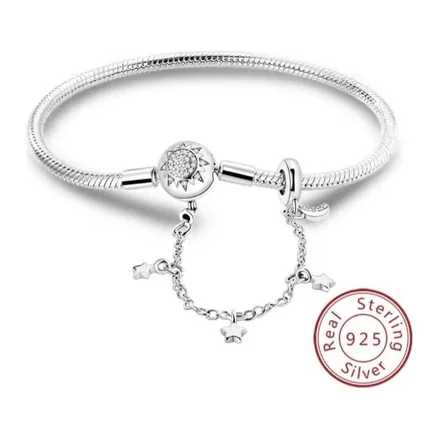
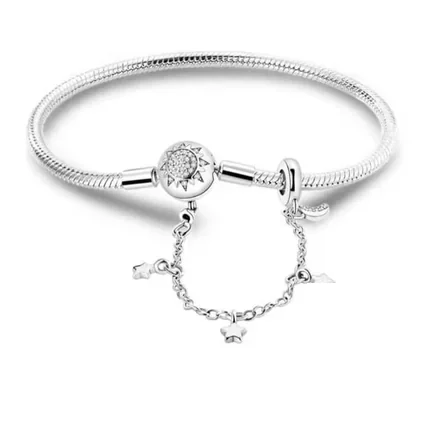
Limpiar el sello del osito y de la pulsera del sol, que habia descartado mal
Llegaron cinco imagenes generadas con Gemini para las cinco piezas que yo habia
dado por imposibles de retocar. Venian limpias y del tamaño correcto, pero al
compararlas con la foto real cada una habia cambiado la pieza: las orejas del
osito pasan de lisas a texturadas con brillo, el cierre de la pulsera del sol
pasa de sol a sol con luna creciente, el aro del escudo pasa de calado a liso.
No se publican. Retocar la foto es una cosa y cambiar el producto que la
clienta recibe es otra.

Y al mirarlas de cerca se vio que dos de esas cinco nunca fueron imposibles. El
sello del osito y el de la pulsera del sol estan sobre blanco; lo que entraba en
su caja no era la pieza sino el halo claro del propio sello, que la busqueda de
componentes habia pegado al cuerpo. La guarda contaba ese halo y rechazaba la
foto. Ahora solo cuenta lo que es producto de verdad: oscuro y neutro, porque la
tinta del sello tambien es oscura pero es roja.

Se arregla ademas que la caja del relleno se quedaba corta. La isla que se
detecta es el anillo interior del sello y su tinta mas clara sobrevivia como un
fantasma; al osito le quedaba media leyenda pegada al borde. La caja crece ahora
hasta que su contorno esta rodeado de fondo.

Con esto el sello queda resuelto en las once que lo tenian. La unica que no se
puede es el escudo, donde esta pegado al segundo charm, y esa necesitaba foto
nueva de todos modos por el logo.

Claude-Session: https://claude.ai/code/session_01VSSPYbyepNN7cMwAcyBYuh

Changed region(s): [[0.7091, 0.6205, 0.9455, 0.8864]]

diff --git a/herramientas/quitar_sello.py b/herramientas/quitar_sello.py
@@ -125,16 +125,56 @@ def busca_sello(ruta):
     ids = max(candidatas, key=len)
     xs = [i % ESCALA for i in ids]
     ys = [i // ESCALA for i in ids]
-    caja = (int(min(xs) / ESCALA * W), int(min(ys) / ESCALA * H),
-            int(max(xs) / ESCALA * W) + 1, int(max(ys) / ESCALA * H) + 1)
 
-    # ¿la caja se come parte de la pieza? Se mide en la escala de trabajo.
+    # La isla detectada suele ser el anillo interior del sello; su tinta más
+    # clara queda fuera y sobrevive al relleno como un fantasma —al osito le
+    # quedaba media leyenda «Real Ste» pegada al borde—. Así que la caja crece
+    # mientras su contorno siga tocando tinta, y para cuando lo rodea el fondo.
+    x0, x1 = min(xs), max(xs)
+    y0, y1 = min(ys), max(ys)
+    def hay_tinta(x, y):
+        if not (0 <= x < ESCALA and 0 <= y < ESCALA):
+            return False
+        i = x + y * ESCALA
+        r, g, b = d[i * 3], d[i * 3 + 1], d[i * 3 + 2]
+        return r - g > 6 and r - b > 6 and min(r, g, b) < 248
+    for _ in range(ESCALA // 6):
+        borde = ([(x, y0 - 1) for x in range(x0, x1 + 1)]
+                 + [(x, y1 + 1) for x in range(x0, x1 + 1)]
+                 + [(x0 - 1, y) for y in range(y0, y1 + 1)]
+                 + [(x1 + 1, y) for y in range(y0, y1 + 1)])
+        if not any(hay_tinta(x, y) for x, y in borde):
+            break
+        x0, y0 = max(0, x0 - 1), max(0, y0 - 1)
+        x1, y1 = min(ESCALA - 1, x1 + 1), min(ESCALA - 1, y1 + 1)
+    xs, ys = [x0, x1], [y0, y1]
+
+    caja = (int(x0 / ESCALA * W), int(y0 / ESCALA * H),
+            int(x1 / ESCALA * W) + 1, int(y1 / ESCALA * H) + 1)
+
+    # Se rellena la **caja** del sello, no sus píxeles: la isla que se detecta es
+    # el aro exterior, no el disco, y rellenar solo el aro deja el interior con
+    # el texto puesto y franjas donde el relleno tomó referencias de dentro.
+    #
+    # Lo que sí cambió es la guarda. Antes contaba cualquier píxel del componente
+    # de la pieza que cayera en la caja, y eso rechazaba fotos limpiables: en el
+    # osito eran 65 píxeles de color (228,228,226) y (235,216,220) —el halo claro
+    # del propio sello, que la búsqueda de componentes había pegado al cuerpo—.
+    # Una plata o un esmalte son oscuros; un halo no. Así que solo cuenta lo
+    # oscuro.
     sx0, sy0 = min(xs) - 2, min(ys) - 2
     sx1, sy1 = max(xs) + 2, max(ys) + 2
-    dentro = sum(1 for i in pieza
-                 if sx0 <= i % ESCALA <= sx1 and sy0 <= i // ESCALA <= sy1)
-    if dentro > 6:
-        return None, f"el sello pisa la pieza ({dentro} px) — hace falta foto nueva"
+    # …y tampoco cuenta lo rojizo. La tinta del sello ES oscura, y parte de su
+    # aro acaba asignada al componente de la pieza; contarla daba 144 píxeles de
+    # «producto» en el osito que eran el propio sello. El producto que rodea a
+    # estos sellos es plata: oscura y neutra. Rojo oscuro = sello; gris oscuro =
+    # pieza.
+    pisados = sum(1 for i in pieza
+                  if sx0 <= i % ESCALA <= sx1 and sy0 <= i // ESCALA <= sy1
+                  and min(d[i * 3], d[i * 3 + 1], d[i * 3 + 2]) < 190
+                  and not (d[i * 3] - d[i * 3 + 1] > 10 and d[i * 3] - d[i * 3 + 2] > 10))
+    if pisados > 25:
+        return None, f"el sello se superpone a la pieza ({pisados} px) — hace falta foto nueva"
     return caja, "limpiable"
 
 
@@ -168,7 +208,7 @@ def main():
         caja, motivo = busca_sello(p)
         if caja:
             limpiables.append((p, caja))
-        elif "pisa" in motivo:
+        elif "superpone" in motivo:
             pisan.append((p, motivo))
         else:
             limpias += 1

diff --git a/ESTADO.md b/ESTADO.md
@@ -269,15 +269,16 @@ destroza; necesita foto nueva.
 - `atrapasuenos-azul` — la que llegó viene a 158×318 y la actual tiene la pieza
   a 386×329. Quitarle el «8/9» costaría nitidez, que es exactamente el cambio
   que se revirtió con el osito. Se queda hasta que aparezca una grande.
-- El **sello del proveedor: resuelto en 9 de 11**. `herramientas/quitar_sello.py`
+- El **sello del proveedor: resuelto en 11 de 11**. `herramientas/quitar_sello.py`
   hizo el barrido: quedaban 11 fotos con sello (no ~30 — la tanda del 20 se
   llevó el resto al cambiar 39 fotos). Ocho se limpiaron sin tocar la pieza,
-  más `pulsera-copo-de-nieve` que se hizo antes a mano. **Quedan dos**, y
-  necesitan foto nueva porque el sello se superpone a la pieza y no hay nada
-  que rellenar: `osito-con-rosa-y-corazon` (215 px de solape) y
-  `pulsera-sol-con-cadena-seguridad` (36 px). Una tercera,
-  `escudo-capitan-america`, tiene el sello pegado al segundo charm, pero esa ya
-  estaba en la lista por el logo de Disney.
+  más `pulsera-copo-de-nieve` que se hizo antes a mano. **Las dos que había
+  dado por imposibles no lo eran**: en `osito-con-rosa-y-corazon` y
+  `pulsera-sol-con-cadena-seguridad` el sello está sobre blanco y lo que
+  entraba en su caja era el halo del propio sello, no la pieza. Ya están
+  limpias. La única que de verdad no se puede es `escudo-capitan-america`,
+  donde el sello está pegado al segundo charm — y esa ya estaba en la lista
+  por el logo de Disney.
 - La foto que se ve **al compartir el sitio** por WhatsApp o Facebook
   (`og:image`) es `pulsera-armada-con-muranos-camaleon-verde-y-atrapa.jpg`:
   800×600, luz de casa, fondo de sala. Es la primera impresión en cada enlace
@@ -295,6 +296,26 @@ destroza; necesita foto nueva.
 > cuando los paneles de un collage traen fondo propio, el panel entero cuenta
 > como pieza y la foto vieja sale inflada. Ahí avisa de una pérdida que no
 > existe —pasó con `bola-rosa-con-flores`, que se comprobó a mano—.
+
+#### Fotos generadas con IA: no
+
+Llegaron cinco `Gemini_Generated_Image_*.webp` para las cinco piezas que no se
+podían retocar. Venían limpias, sobre blanco, del tamaño correcto — y **no se
+publicaron**, porque al compararlas contra la foto real cada una había cambiado
+la pieza:
+
+| Pieza | Qué inventó |
+|---|---|
+| Osito con rosa | Las orejas, lisas con una espiral grabada, salen texturadas con brillo tipo pavé |
+| Pulsera Sol | El cierre pasa de sol de rayos triangulares a **sol con luna creciente**, con las circonitas repartidas de otro modo |
+| Escudo Capitán América | El aro pasa de calado a liso |
+
+No es cuestión de estilo. Una clienta que compra el osito esperando orejas con
+brillo recibe otra cosa, y eso vuelve como devolución. La regla es la misma que
+con el grabado de la pieza: **retocar la foto sí, cambiar el producto no.**
+
+Lo que sí resolvió el caso fue volver sobre el retoque: dos de esas cinco se
+pudieron limpiar de verdad.
 
 #### Qué mandar para que la foto quede bien — medido, no supuesto
 
